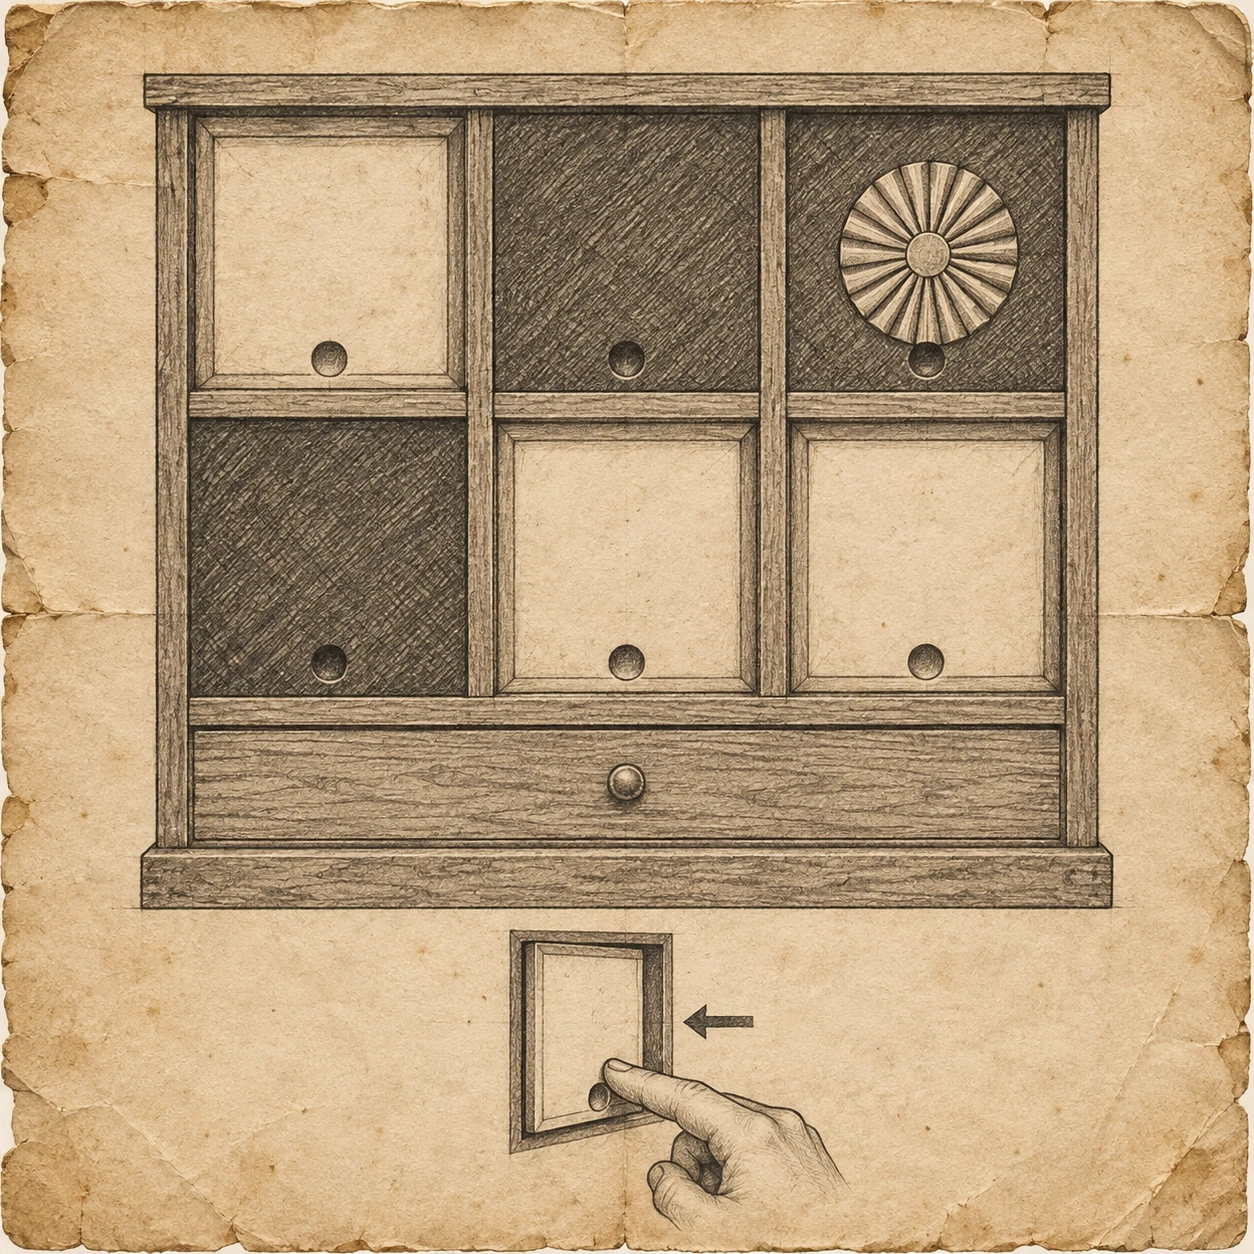
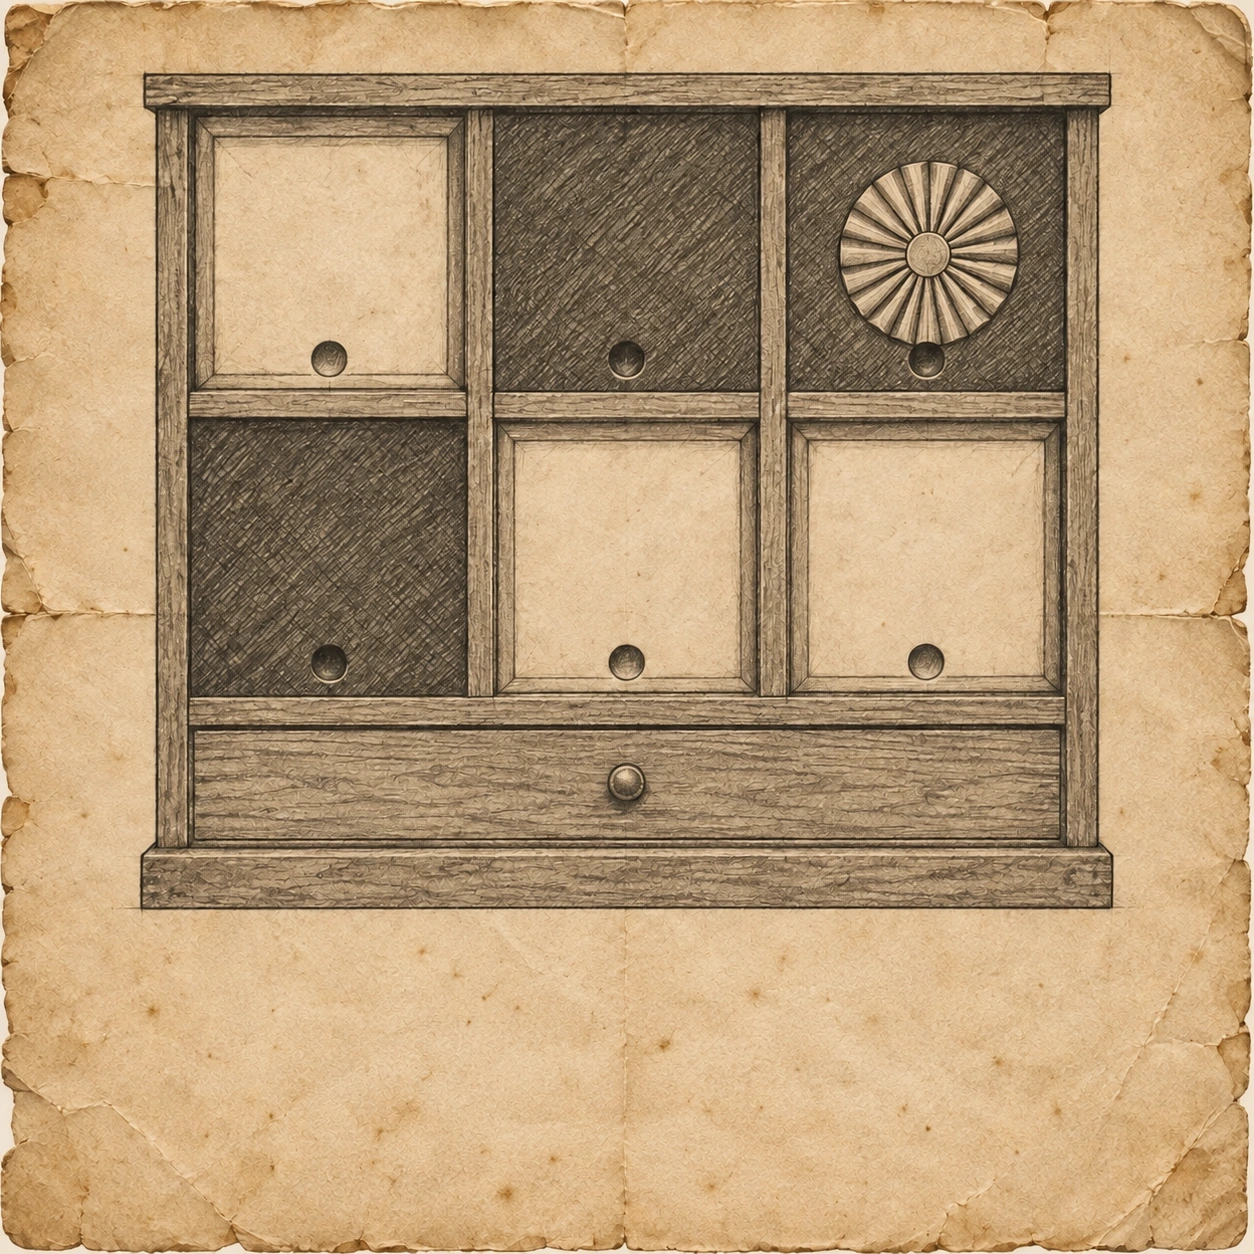
fix: 保管棚の操作例を除き推理を先回りする説明を抑える

diff --git a/src/data.ts b/src/data.ts
@@ -154,9 +154,9 @@ export const CLUES: Record<
     room: 1,
   },
   mirror: {
-    name: "保管棚の押し板図",
+    name: "保管棚の図",
     image: photo("clues-a", 3),
-    text: "白い板を押す図。放射状の飾りは、棚と反対側にある。",
+    text: "六つの区画を描いた古い図。",
     room: 2,
   },
   shadows: {

diff --git a/docs/assets/prompts.md b/docs/assets/prompts.md
@@ -207,3 +207,12 @@ Generate a strictly registered 2x2 contact sheet of FOUR square closeup photogra
 用途: lamp-states:0, lamp-states:1, lamp-states:2
 
 Create a 2 by 2 precisely registered contact sheet of FOUR square photographs of the EXACT workbench in the reference. The drawer on RIGHT is CLOSED in ALL four panels (no scissors exposed). Same composition and camera. TOP LEFT: lamp OFF, bulb socket empty inside shade, plain cream paper on desk. TOP RIGHT: bulb installed and lamp ON at its normal high position, softly even flat lighting over same plain paper. BOTTOM LEFT: articulated lamp moved to a LOW LEFT position (base remains on left), casts strong raking light across paper so three pressed square outlines in the paper become visible (3x3 grid, TOP CENTER, MIDDLE RIGHT, BOTTOM LEFT squares have strong embossed cut outline). Drawer stays closed. BOTTOM RIGHT: same as bottom-left but drawer open with scissors inside. All other objects, wood grain, desk, books, shelves remain consistent. Photorealistic engineering photographic states, same aged green lamp. Do not add knobs or graphical UI. No labels or words or numbers. Four square panels without gutters.
+
+
+## 2026-09-19 保管棚の図の操作説明を整理
+
+採用: `public/images/clues/a/mirrored-shelf.webp` (`clues-a:3`)。built-in image_gen で既存画像を編集。
+
+Prompt: Edit this image, preserving the exact square canvas, weathered parchment edges, and the entire cabinet drawing in the upper 73% unchanged. The final artwork consists solely of this cabinet drawing above and plain naturally aged parchment below. In the bottom 27% restore continuous blank old parchment with subtle paper fibres, stains and folds matching surrounding paper. Preserve cabinet six-panel arrangement, every white and dark panel, rosette top right, all knobs, drawer and baseline. Keep original cabinet size and location. This is a photographic aged pencil-drawn artifact, not a clean digital diagram.
+
+生成結果とスマホ幅の実画面を目視確認。白黒配置・飾りの位置を維持。観察文も解き方を直説しないものへ変更。ビルド・資産監査成功。

diff --git a/docs/architecture.md b/docs/architecture.md
@@ -39,3 +39,10 @@
 変更時は全体→拡大→途中→開閉→取得後の写真を対で比較する。入力テストの成功だけで視覚的な一致を確認したことにしない。画面幅を変えて、対象物そのものを触れるか、隣の物が反応しないかも確認する。
 
 静的アプリでバックエンドは不要。フォントはローカルの明朝体を使い、外部フォント配信に依存しない。公開・デプロイは行っていない。
+
+
+## 難易度を保つ修正方針
+
+ユーザー指定（2026-09-19）: 見た目・当たり判定・操作の反応を修正するときも、謎を簡単にしない。押した物が沈む、取り付けた物が残る、といった操作後の反応は明瞭にする。一方、通常の手掛かりに指のジェスチャー、答えの位置への矢印、操作手順の直説を足して推理を代行しない。対応関係、向き、順序、意味をプレイヤー自身が読み解く余地を維持する。任意に開く段階式ヒントと通常の観察文を区別し、観察文が答えを先回りしていないか画像と一緒に点検する。
+
+保管棚の図は棚の配置と明暗だけを資料として示す。下部の操作例は採用しない。図の観察文も反転や押す色を直接教えない。実物を操作したときの沈み込みは維持する。
